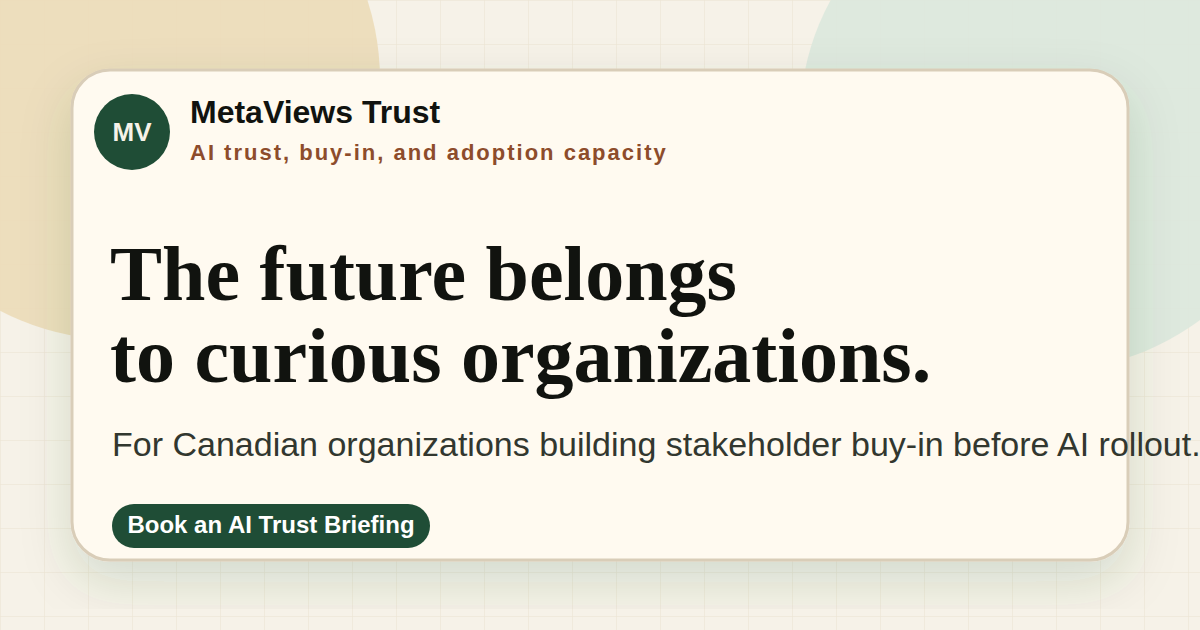
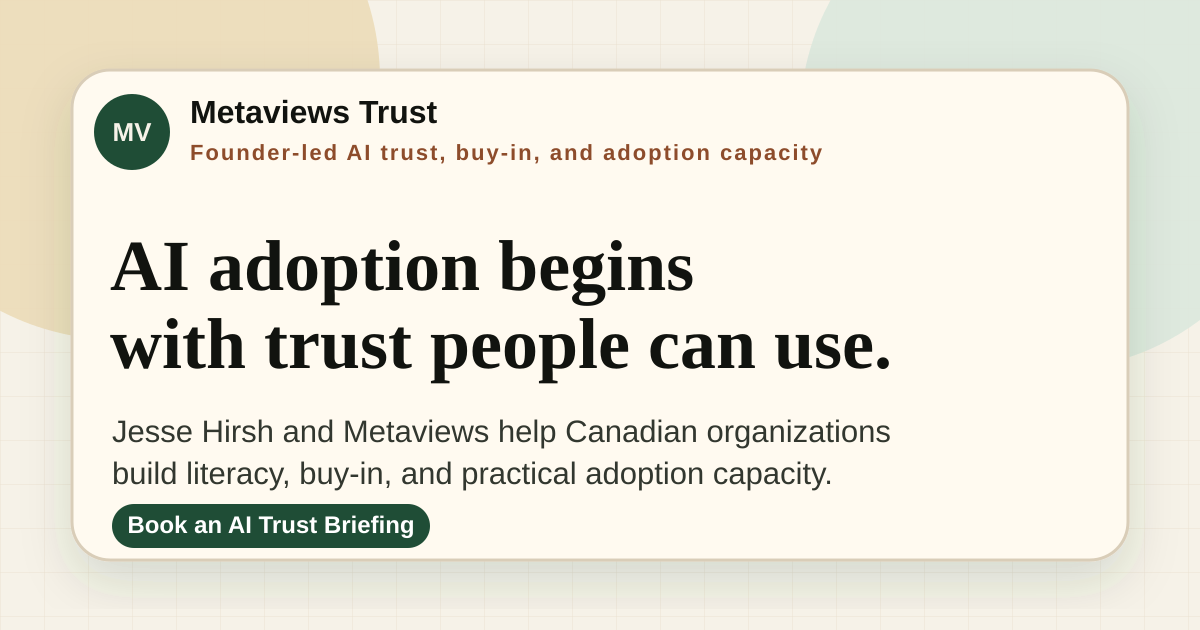
seo: strengthen founder-led trust metadata

diff --git a/src/_data/site.js b/src/_data/site.js
@@ -4,12 +4,26 @@ module.exports = {
   origin: "https://trust.metaviews.ca",
   url: "https://trust.metaviews.ca/",
   locale: "en_CA",
-  description: "Metaviews helps Canadian organizations turn AI pressure into practical curiosity, shared literacy, stakeholder buy-in, and trustworthy adoption through briefings, workshops, open-source orientation, alignment sessions, and adoption roadmaps.",
+  description: "Founder-led by Jesse Hirsh, Metaviews helps Canadian organizations build AI trust, literacy, stakeholder buy-in, and adoption capacity through briefings, workshops, open-source orientation, alignment sessions, and adoption roadmaps.",
   image: "/assets/link-preview.png",
-  imageAlt: "Metaviews Trust: AI trust, buy-in, and adoption capacity for curious Canadian organizations.",
+  imageAlt: "Metaviews Trust: founder-led AI trust, buy-in, and adoption capacity for Canadian organizations.",
   email: "metaviews@gmail.com",
   organization: "Metaviews Media Management Ltd.",
+  founder: "Jesse Hirsh",
   sameAs: [
-    "https://metaviews.ca/"
+    "https://metaviews.ca/",
+    "https://jessehirsh.com/",
+    "https://www.nsb.com/speakers/jesse-hirsh/",
+    "https://en.wikipedia.org/wiki/Jesse_Hirsh"
+  ],
+  knowsAbout: [
+    "AI adoption",
+    "AI governance",
+    "AI literacy",
+    "institutional trust",
+    "media literacy",
+    "open-source AI",
+    "stakeholder buy-in",
+    "technology and authority"
   ]
 };
